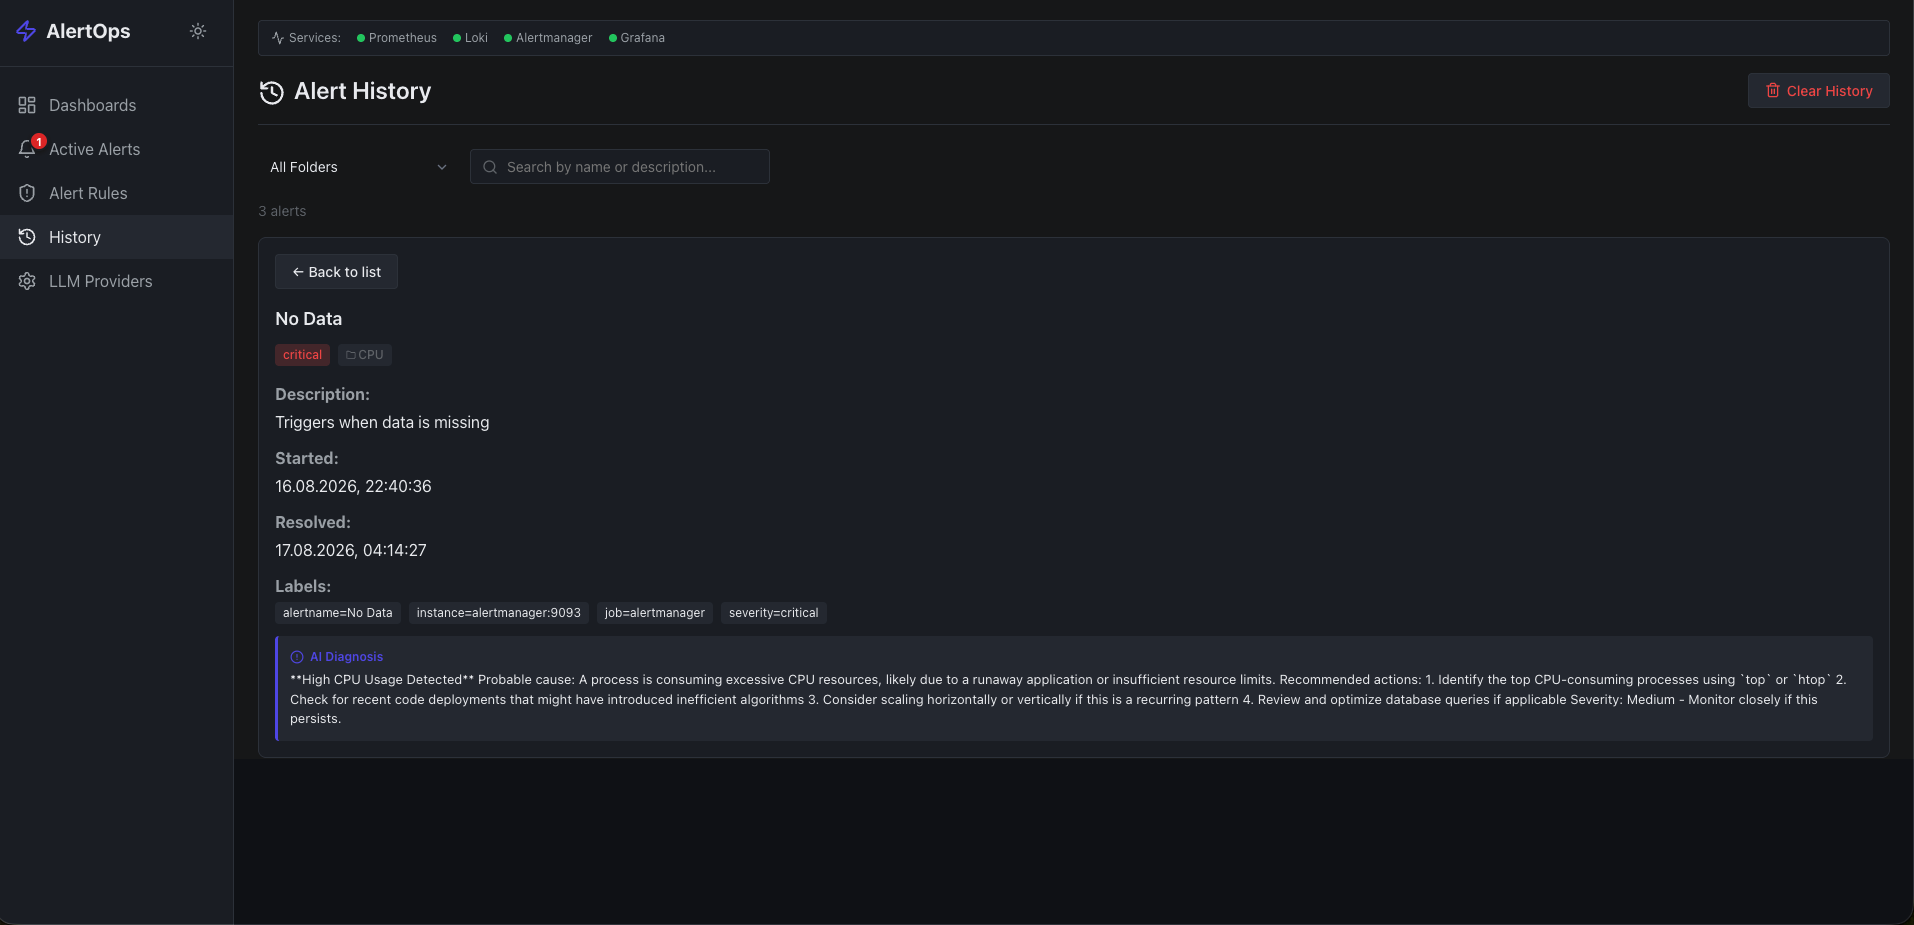
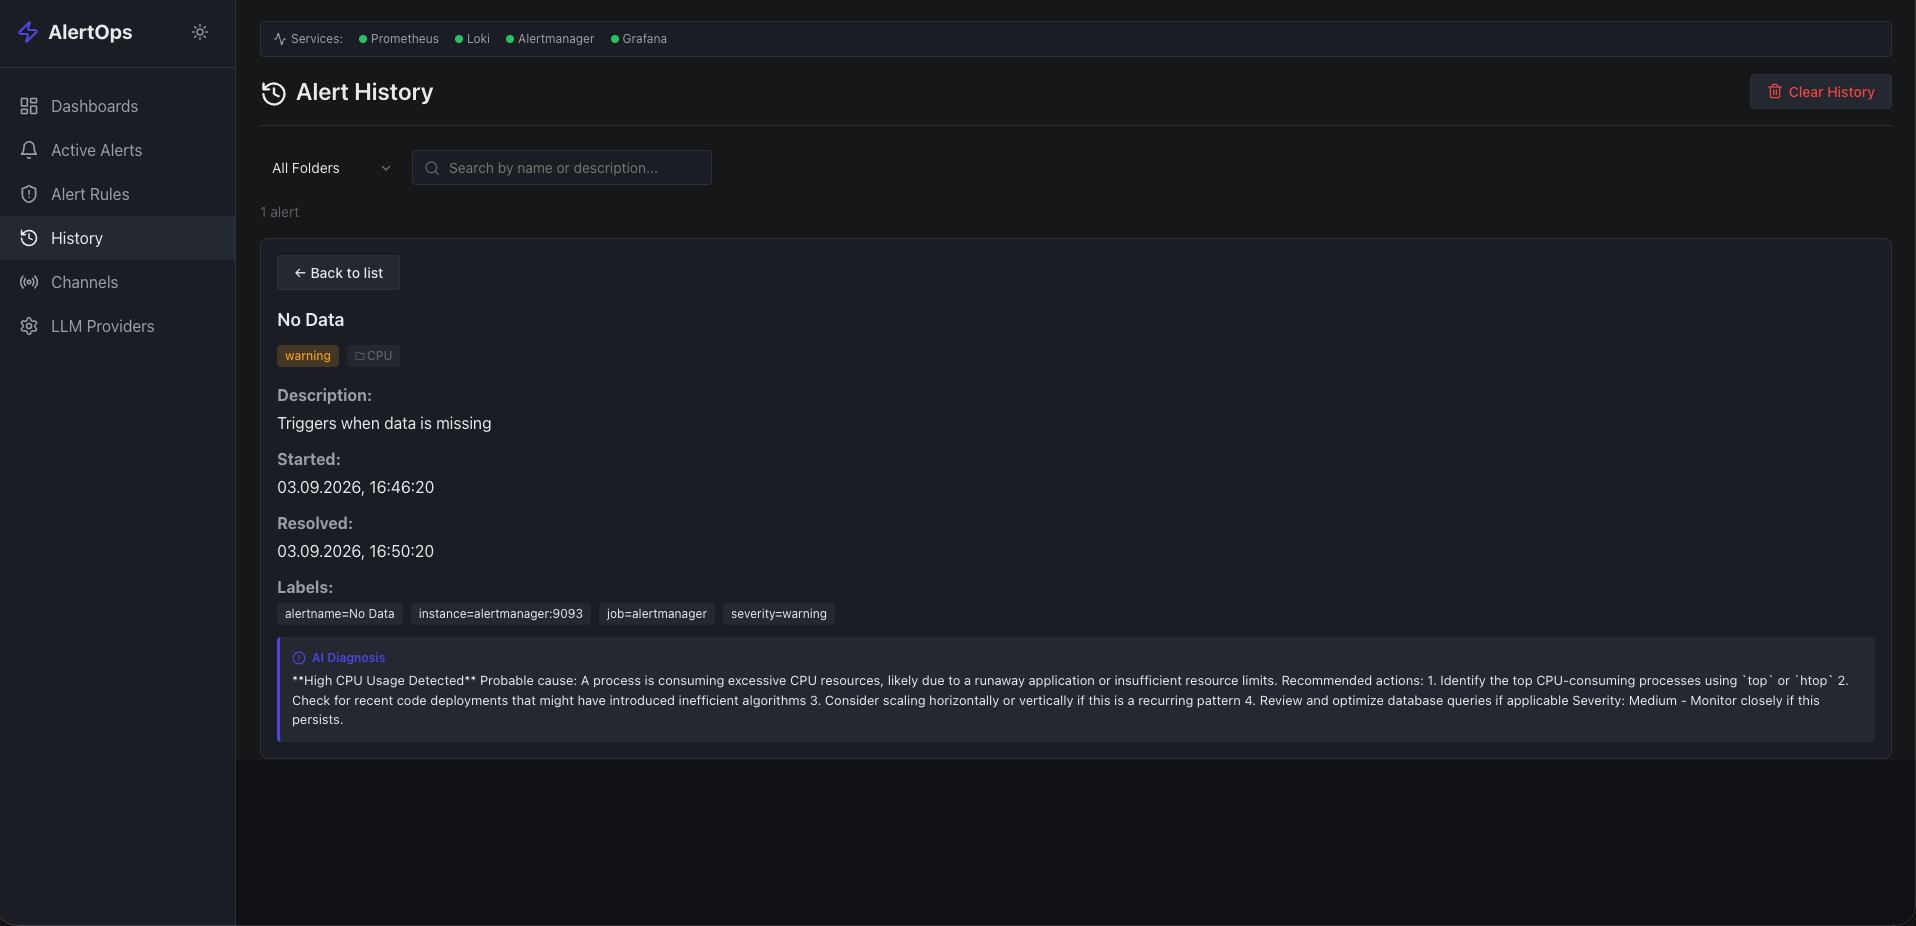
update readme adn screenshots

diff --git a/README.md b/README.md
@@ -51,6 +51,22 @@ Manage multiple LLM providers. Supports DeepSeek, OpenAI, and any OpenAI-compati
 
 ![LLM Provider Settings](assets/screenshots/providers.png)
 
+---
+
+### Notification Channels
+Configure notification channels (Telegram, Webhook) and assign them to alert rules. Each rule can use specific channels or fall back to all enabled channels.
+
+
+![Notification Channels](assets/screenshots/notification-channels.png)
+
+---
+
+### Alert Rules
+Manage all alert rules in one place. View rule status, edit queries and conditions, assign notification channels, silence rules individually or by folder, and delete rules with automatic cleanup of associated active alerts.
+
+
+![Alert Rules](assets/screenshots/alert-rules.png)
+
 ## Architecture
 
 ```
@@ -270,7 +286,25 @@ To avoid unnecessary LLM API calls and costs, AlertOps caches diagnosis results:
 
 Expired cache entries are automatically cleaned up during the daily alert history cleanup.
 
-### 5. Alert Counter Badge
+### 5. Notification Channels
+
+AlertOps supports sending alerts to external channels:
+
+- **Telegram** — sends formatted messages with alert details and AI diagnosis
+- **Webhook** — POSTs JSON payload to any URL
+
+**Channel assignment**:
+- Each alert rule can have specific channels assigned
+- Rules without channels use all enabled channels (backward compatibility)
+- Rules with explicitly empty channels (`[]`) receive **no notifications**
+
+**Configuration**:
+1. Open **Settings → Notification Channels**
+2. Add a channel (Telegram bot token + chat ID, or webhook URL)
+3. Test the channel with a test alert
+4. Assign channels to rules in the rule list or during alert creation
+
+### 6. Alert Counter Badge
 
 The sidebar shows a **red badge** next to "Active Alerts" with the current count of all active alerts (both firing and acknowledged). The counter:
 
@@ -279,7 +313,7 @@ The sidebar shows a **red badge** next to "Active Alerts" with the current count
 - Does **not** reset when you open the Active Alerts page
 - Disappears when there are no active alerts
 
-### 6. File Storage
+### 7. File Storage
 
 All data is stored in `./data/`:
 
@@ -337,6 +371,13 @@ The backend exposes a REST API at `http://localhost:8000/api/`. All endpoints re
 | `POST` | `/api/rules/folders/{folder_name}/silence?duration_minutes=60` | Silence all rules in a folder for N minutes. Active alerts are moved to history with `silenced_by` marker |
 | `POST` | `/api/rules/folders/{folder_name}/unsilence` | Remove silence from a folder. Rules resume normal operation |
 
+### Alert Rule Silence (Individual)
+
+| Method | Endpoint | Description |
+|--------|----------|-------------|
+| `POST` | `/api/rules/{id}/silence?duration_minutes=60` | Silence a single rule for N minutes. Use `duration_minutes=-1` for indefinite silence |
+| `POST` | `/api/rules/{id}/unsilence` | Remove silence from a single rule |
+
 ### AI Alert Generation
 
 | Method | Endpoint | Description |
@@ -369,6 +410,16 @@ The backend exposes a REST API at `http://localhost:8000/api/`. All endpoints re
 |--------|----------|-------------|
 | `GET` | `/api/alerts/history?q=&start=&end=` | Resolved alerts with search and date filter |
 | `DELETE` | `/api/alerts/history` | Clear all history (active alerts preserved) |
+
+### Notification Channels
+
+| Method | Endpoint | Description |
+|--------|----------|-------------|
+| `GET` | `/api/notification-channels` | List all notification channels |
+| `POST` | `/api/notification-channels` | Create a new channel (Telegram or Webhook) |
+| `PUT` | `/api/notification-channels/{id}` | Update a channel |
+| `DELETE` | `/api/notification-channels/{id}` | Delete a channel (also removes it from all rules) |
+| `POST` | `/api/notification-channels/{id}/test` | Send a test notification |
 
 ### LLM Providers
 
